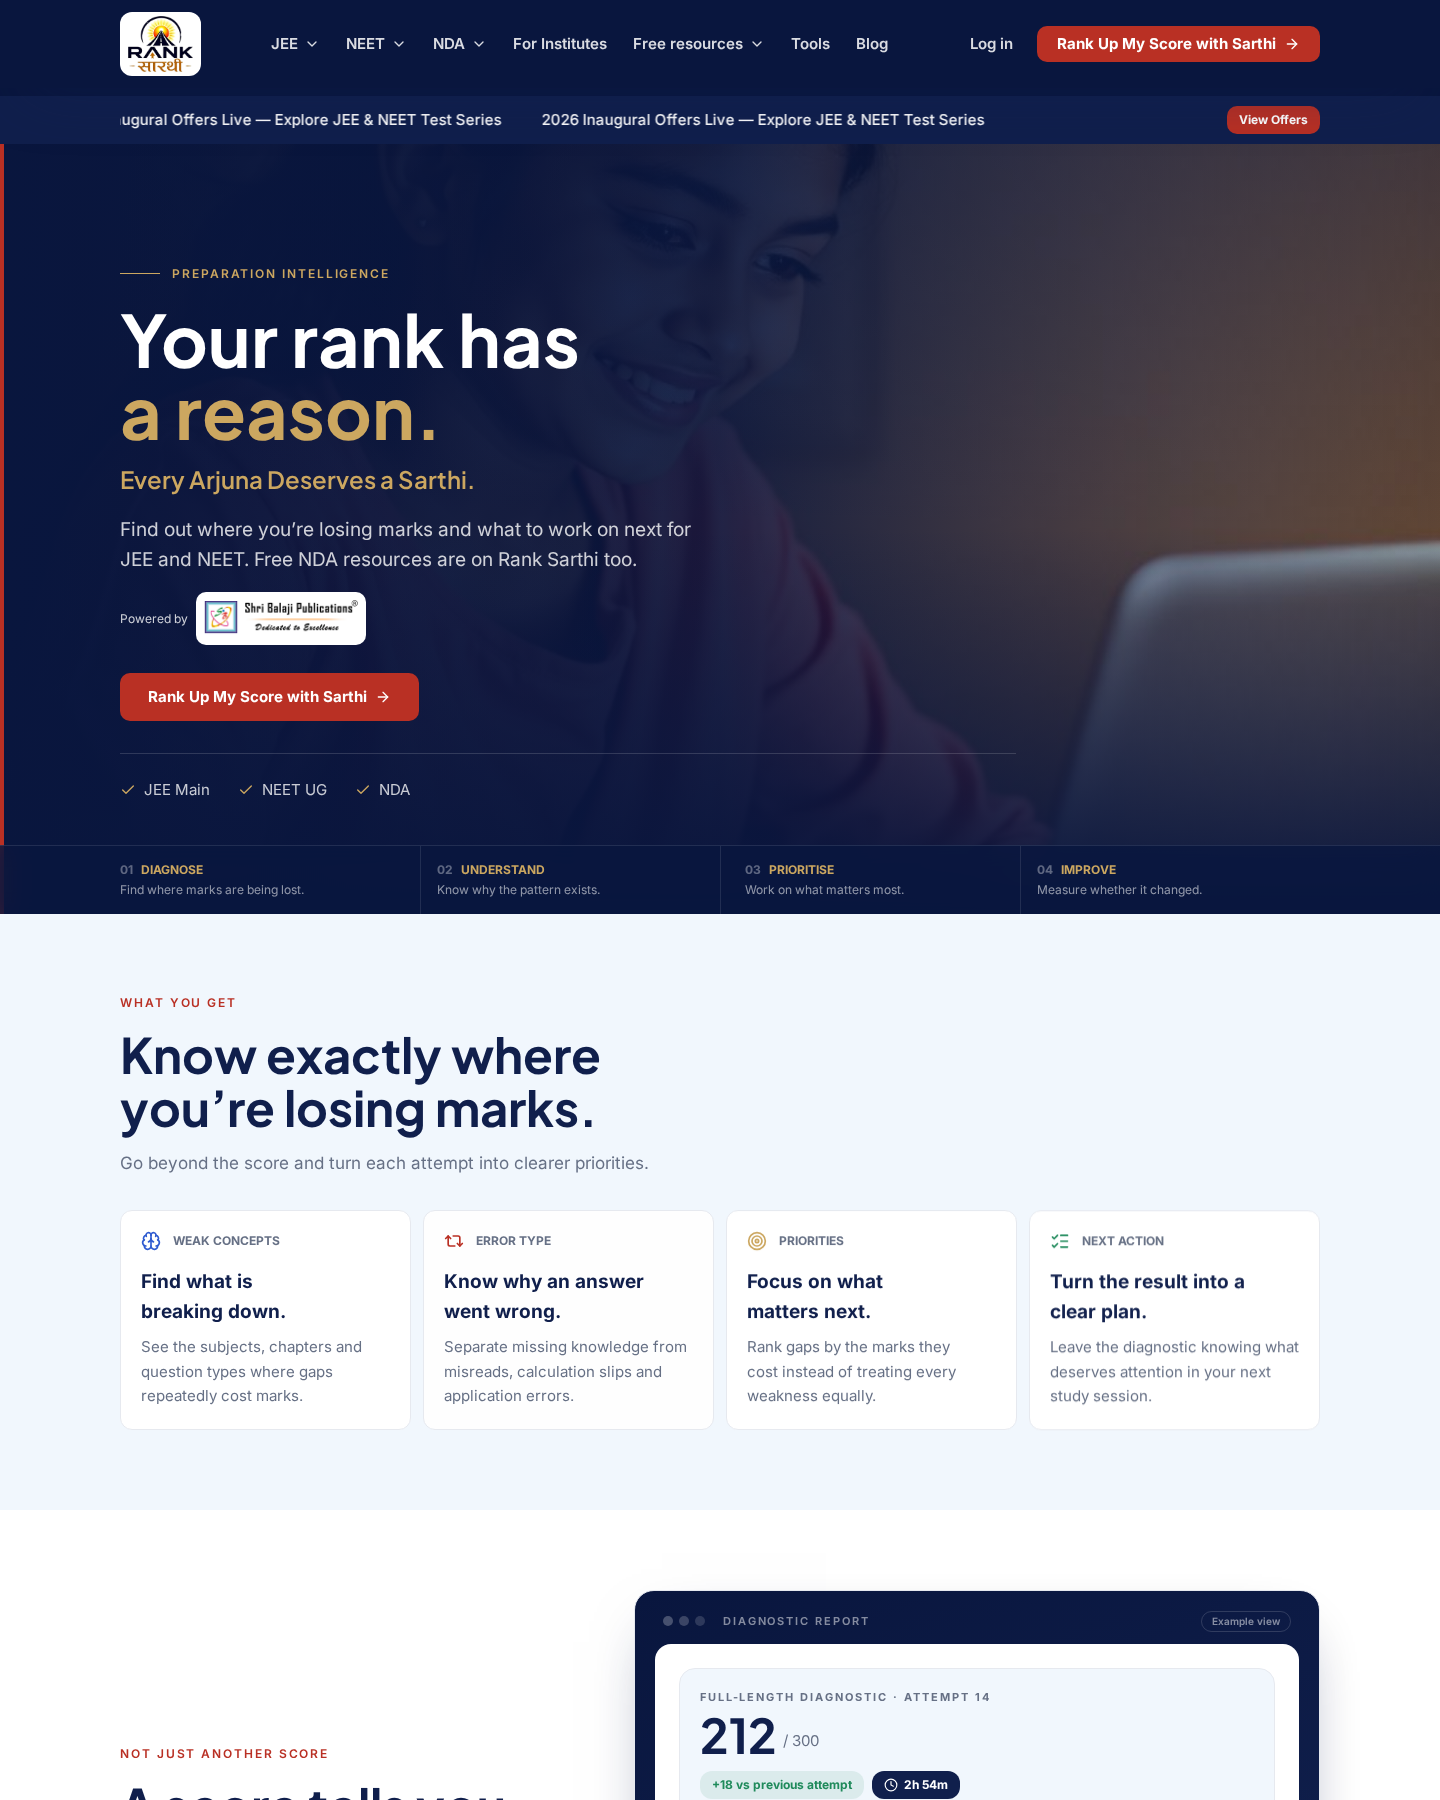
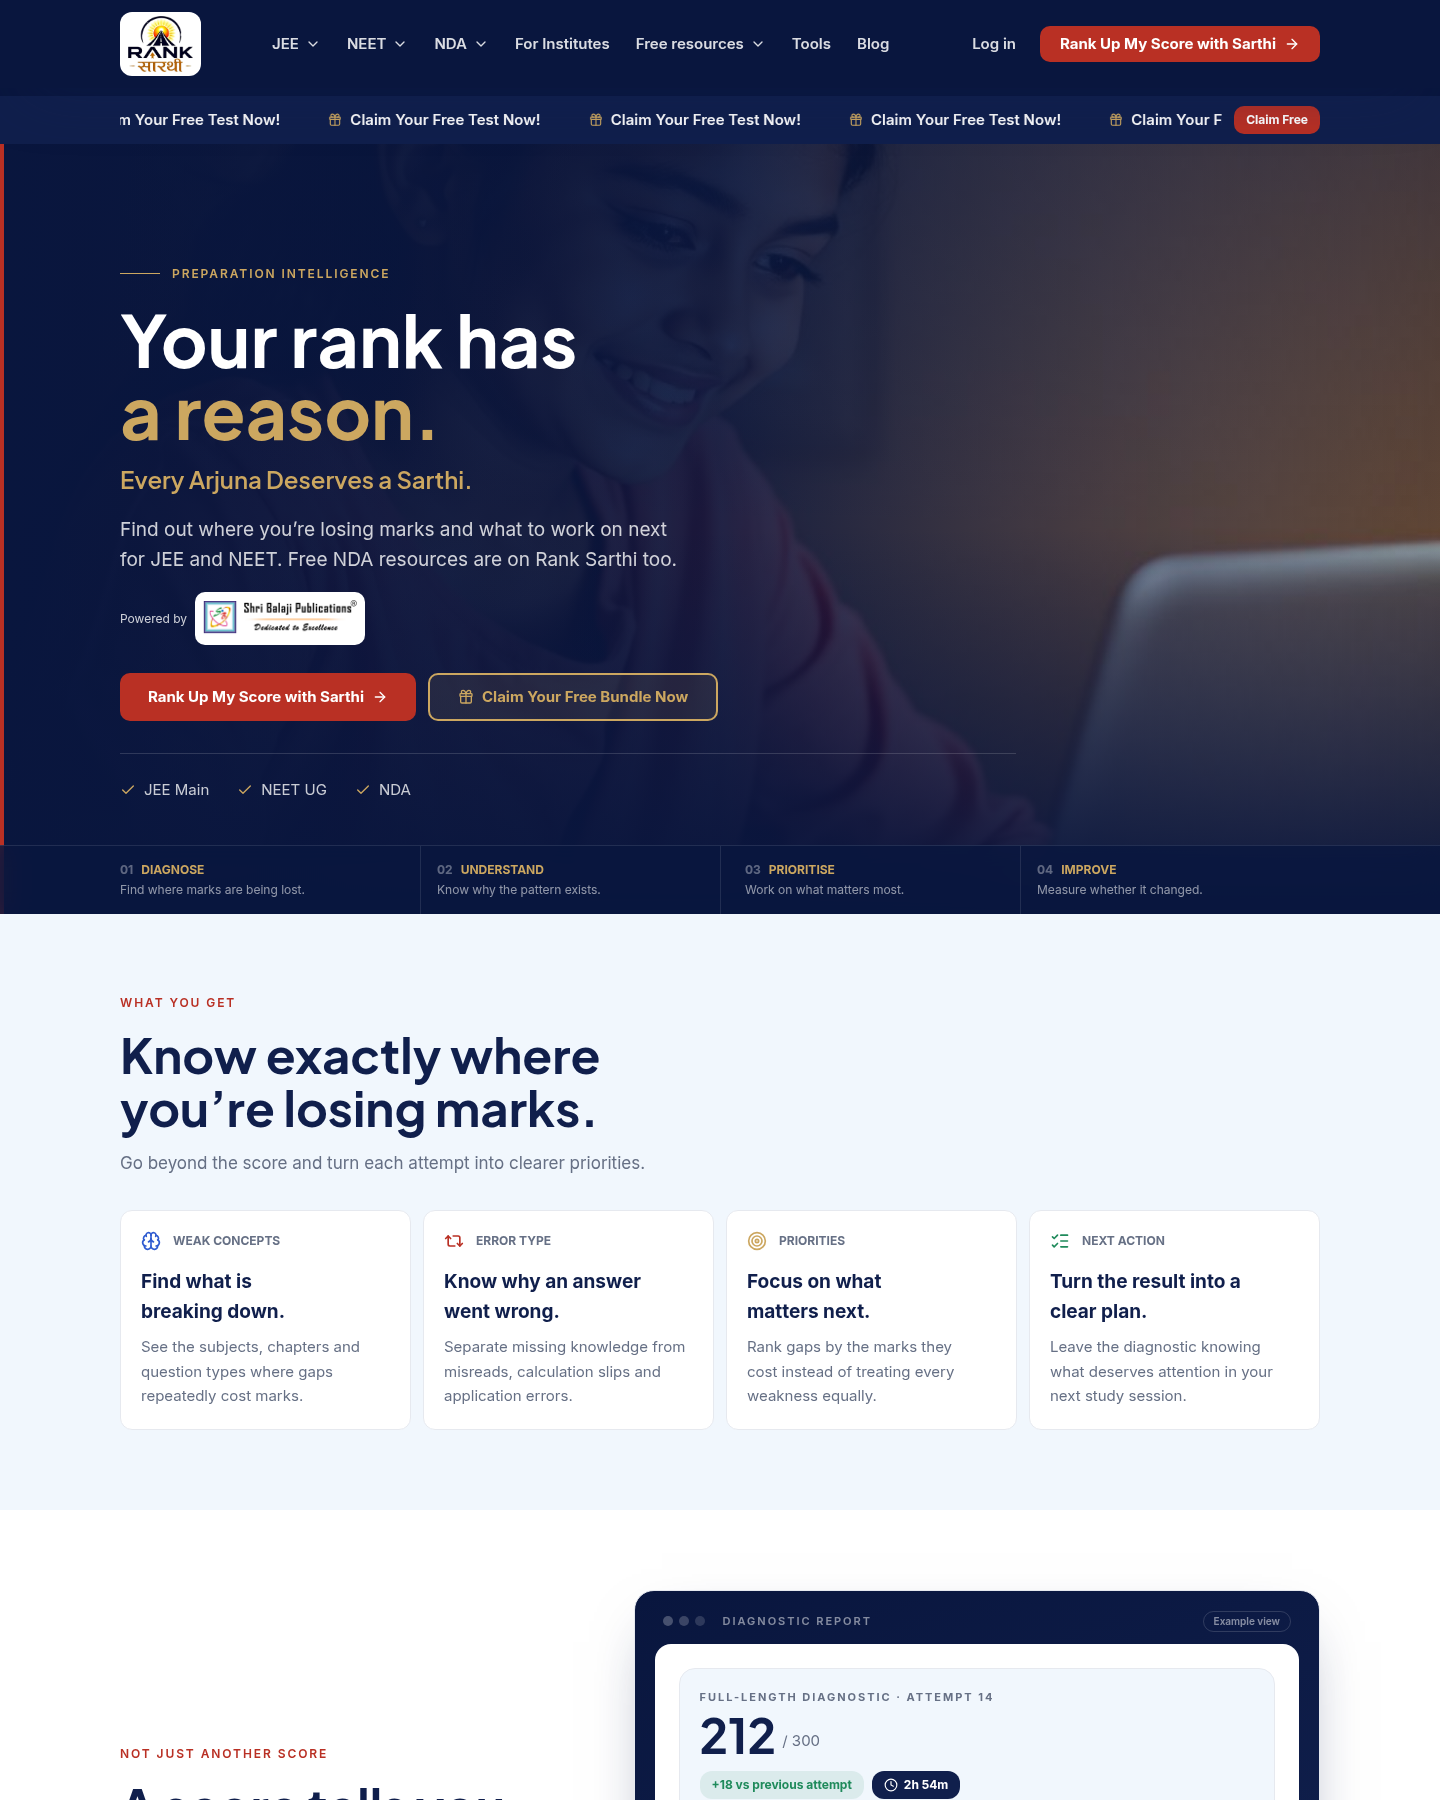
Changes

diff --git a/src/lib/launch-offer.test.ts b/src/lib/launch-offer.test.ts
@@ -1,0 +1,41 @@
+import { describe, expect, it, beforeEach } from "vitest";
+import { __resetLaunchOfferCache, bundleHeading, bundleTotalPaise, formatPaise, getLaunchOffer, launchOfferEndpoint, launchOfferExamsForPath, parseLaunchOffer } from "@/lib/launch-offer";
+
+const claim = "https://jeerankup.com/redeem?coupon=LAUNCH1&utm_source=ranksarthi&utm_medium=launch_offer&utm_campaign=launch";
+const active = (over: Record<string, unknown> = {}) => ({ data: { active: true, headline: "H", max_students: 100, places_left: 63, until: "2026-11-30", bundle: { heading: null, subheading: null, price_paise: 250000, total_value_paise: null, items: [{ count: 10, text: "full tests", value_paise: 100000 }] }, claim_url: claim, ...over }, meta: {} });
+
+describe("launch offer API", () => {
+  beforeEach(() => __resetLaunchOfferCache());
+  it("sends the agreed Rank Sarthi UTM values", () => {
+    expect(launchOfferEndpoint("jee")).toBe("https://api.jeerankup.com/api/v1/public/launch-offer?utm_source=ranksarthi&utm_medium=launch_offer&utm_campaign=launch");
+  });
+  it("hides inactive offers", () => expect(parseLaunchOffer("jee", { data: { active: false } })).toBeNull());
+  it("keeps claim_url exactly as returned", () => expect(parseLaunchOffer("jee", active())!.claimUrl).toBe(claim));
+  it("rejects a claim link on another site", () => {
+    expect(parseLaunchOffer("neet", active())).toBeNull();
+    expect(parseLaunchOffer("jee", active({ claim_url: "http://jeerankup.com/redeem" }))).toBeNull();
+  });
+  it("converts paise with Indian grouping", () => {
+    expect(formatPaise(250000)).toBe("₹2,500");
+    expect(formatPaise(10000000)).toBe("₹1,00,000");
+  });
+  it("falls back to price for heading and total when admin values are null", () => {
+    const o = parseLaunchOffer("jee", active())!;
+    expect(bundleHeading(o)).toBe("Claim your free bundle worth ₹2,500");
+    expect(bundleTotalPaise(o)).toBe(250000);
+  });
+  it("keeps null places as null", () => expect(parseLaunchOffer("jee", active({ max_students: null, places_left: null }))!.placesLeft).toBeNull());
+  it("shows JEE only on JEE pages, NEET only on NEET pages, nothing on NDA", () => {
+    expect(launchOfferExamsForPath("/jee/physics")).toEqual(["jee"]);
+    expect(launchOfferExamsForPath("/neet")).toEqual(["neet"]);
+    expect(launchOfferExamsForPath("/nda/syllabus")).toEqual([]);
+    expect(launchOfferExamsForPath("/")).toEqual(["jee", "neet"]);
+  });
+  it("hides the offer on 429 and calls the API at most once a minute", async () => {
+    let calls = 0;
+    const f = (async () => { calls++; return new Response("", { status: 429 }); }) as typeof fetch;
+    expect(await getLaunchOffer("jee", f)).toBeNull();
+    expect(await getLaunchOffer("jee", f)).toBeNull();
+    expect(calls).toBe(1);
+  });
+});

diff --git a/src/lib/publisher.test.ts b/src/lib/publisher.test.ts
@@ -8,9 +8,8 @@ describe("approved publisher catalogue", () => {
     expect(publisherBooks).toHaveLength(8);
     expect(publisherBooks.some((book) => String(book.exam) === "nda")).toBe(false);
   });
-  it("keeps every book destination on the official publisher", () => {
+  it("keeps the general publisher site but no book-specific shopping links", () => {
     expect(publisher.website).toBe("https://www.shribalajibooks.com/");
-    expect(publisherBooks.map((book) => new URL(book.url).origin)).toEqual(Array(8).fill("https://www.shribalajibooks.com"));
-    expect(new Set(publisherBooks.map((book) => book.url)).size).toBe(8);
+    for (const book of publisherBooks) expect("url" in book).toBe(false);
   });
 });
